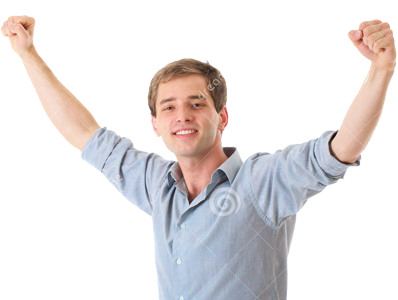
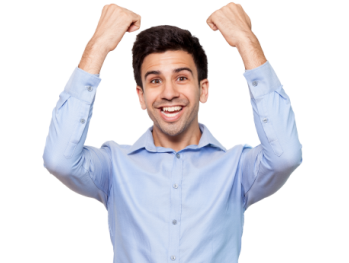
feat (index): responsividade - add media.css - correções gerais - add fontawesome.js

diff --git a/assets/css/media.css b/assets/css/media.css
@@ -1,0 +1,210 @@
+/* PHONES - TABLETS */
+@media only screen and (max-width: 768px) {
+    /* ================================== GERAL ================================== */
+    :root {
+        --header-height-600: 80px;
+    }
+    .container {
+        width: 85%;
+    }
+
+    /* ================================== HEADER ================================== */
+    header {
+        height: var(--header-height-600);
+        display: flex;
+        justify-content: center;
+        align-items: center;
+    }
+
+    .flex {
+        display: flex;
+        justify-content: space-between;
+        align-items: center;
+    }
+
+    .logo {
+        font-size: 1.5rem;
+    }
+
+    .logo img {
+        height: 60px;
+    }
+
+    .menu {
+        display: flex;
+        align-items: center;
+    }
+
+    nav ul {
+        display: none;
+        flex-direction: column;
+        background-color: #347aba;
+        position: absolute;
+        right: 0;
+        top: var(--header-height-600);
+        width: 50%;
+        cursor: pointer;
+    }
+
+    nav ul li a {
+        width: 100%;
+        font-size: 1rem;
+    }
+
+    .menuMobile {
+        display: flex;
+        justify-content: center;
+        align-items: center;
+    }
+
+    .menuMobile i {
+        display: flex;
+    }
+
+    /* ================================== SECTION: .BANNER ================================== */
+    .banner {
+        display: flex;
+        justify-content: center;
+
+    }
+
+    .introducao {
+        flex: 1;
+        display: flex;
+        flex-direction: column;
+        justify-content: center;
+        align-items: center;
+    }
+
+    .f1 {
+        margin-top: 0;
+    }
+
+    .f2 {
+        text-align: center;
+    }
+
+    .banner-img {
+        display: none;
+    }
+    /* .banner-img {
+        margin-right: 0;
+        flex: 1;
+        align-self: flex-end;
+    }
+
+    .banner-img img {
+        width: 100%;
+        display: inline-block;
+    } */
+
+    /* ================================== SECTION: .CONTENT ================================== */
+    
+    .content h1 {
+        margin: 0;
+        height: 50px;
+        line-height: 50px;
+    }
+    .figures {
+        display: flex;
+        justify-content:center;
+        align-items: center;
+        flex-wrap: wrap;
+    }
+
+    .figure {
+        /* width: 100%; */
+        background-repeat: no-repeat;
+        height: 150px;
+        margin-bottom: 20px;
+    }
+
+    #figure-img3 {
+        background-position: center bottom;
+    }
+
+    /* ================================== FOOTER ================================== */
+
+    footer {
+        display: flex;
+        line-height: 1rem;
+        height: 60px;
+    }
+
+}
+
+    /* LAPTOPS */
+    @media only screen and (min-width: 769px) and (max-width: 992px) {
+        /* ================================== GERAL ================================== */
+.container {
+    width: 85%;
+}
+
+    /* ================================== SECTION: .BANNER ================================== */
+    .banner {
+        display: flex;
+        justify-content: center;
+        align-items: center;
+
+    }
+
+    .introducao {
+        flex: 1;
+        display: flex;
+        flex-direction: column;
+        justify-content: center;
+        align-items: center;
+    }
+
+    .f1 {
+        margin-top: 0;
+    }
+
+    .f2 {
+        text-align: center;
+    }
+
+    .banner-img {
+        margin: 0;
+        flex: 1;
+    }
+
+    .banner-img img {
+        width: 310px;
+    }
+
+
+        /* ================================== SECTION: .CONTENT ================================== */
+        .content {
+            margin: 0;
+        }
+        .content h1 {
+            margin: 0;
+        }
+        .figures {
+            display: flex;
+            justify-content:center;
+            align-items: center;
+            flex-wrap: wrap;
+        }
+    
+        .figure {
+            width: 20%;
+            background-repeat: no-repeat;
+            height: 200px;
+            margin-bottom: 20px;
+        }
+    
+        #figure-img3 {
+            background-position: center bottom;
+        }
+
+            /* ================================== FOOTER ================================== */
+
+    footer {
+        display: flex;
+        line-height: 1rem;
+        height: 60px;
+    }
+
+}

diff --git a/index.html b/index.html
@@ -1,36 +1,45 @@
 <!DOCTYPE html>
 <html lang="pt-br">
+
 <head>
 	<title>Projeto Imagem em HTML</title>
 
 	<meta charset="UTF-8" />
-	<meta name="reply-to" content="dieggocarvalho@outlook.com" />
+	<meta name="reply-to" content="dieggo.dev@outlook.com" />
 	<meta name="developer" content="DieggoCarvalho" href="https://github.com/DieggoCarvalho/" />
 	<meta id="viewport" name="viewport" content="width=device-width, user-scalable=no" />
-
-	<link rel="stylesheet" type="text/css" href="assets/css/styles.css" />
+	<link rel="stylesheet" type="text/css" href="./assets/css/styles.css" />
+	<link rel="stylesheet" type="text/css" href="./assets/css/media.css" />
+	<link rel="shortcut icon" href="./assets/img/icon/favicon.png" type="image/png" />
 	<!-- <link rel="stylesheet" href="assets/css/reset.css" /> -->
 </head>
+
 <body>
 	<header>
-		<div class="container">
+		<div class="container flex">
 			<div class="logo">
 				<img src="assets/img/homem.png" alt="logo" />
 				<h1 id="logo">Logotipo</h1>
 			</div>
-			<nav class="menu">
-				<ul>
-					<li><a class="ativo" href="./">HOME</a></li>
-					<li><a href="#">SOBRE</a></li>
-					<li><a href="#">NOTÍCIAS</a></li>
-					<li><a href="#">PRODUTOS</a></li>
-					<li><a href="#">CONTATO</a></li>
-				</ul>
-			</nav>
+			<div class="menu">
+				<nav>
+					<div class="menuMobile">
+						<i class="fas fa-bars fa-lg"></i>
+					</div>
+					<ul>
+						<li><a class="ativo" href="./">HOME</a></li>
+						<li><a href="#">SOBRE</a></li>
+						<li><a href="#">NOTÍCIAS</a></li>
+						<li><a href="#">PRODUTOS</a></li>
+						<li><a href="#">CONTATO</a></li>
+					</ul>
+				</nav>
+			</div>
+
 		</div>
 	</header>
 	<section class="banner">
-		<div class="container">
+		<div class="container flex">
 			<div class="introducao">
 				<div class="frase f1">
 					Frase de EFEITO
@@ -79,10 +88,11 @@
 			<span class="copy">
 				by
 			</span>
-				DieggoCarvalho & Curso PHP ZP. Todos os direitos reservados.
+			DieggoCarvalho & Curso PHP ZP. Todos os direitos reservados. Img: <a href="https://br.freepik.com/fotos-gratis/de-negocio-feliz-unico-sucesso-olhando_1073413.htm#query=homem%20feliz%20bra%C3%A7os%20levantados&position=5&from_view=search&track=ais">Freepik</a>.
 		</div>
 	</footer>
-	<script src="assets/js/script.js"></script>
+	<script src="./assets/js/script.js"></script>
+	<script src="./assets/js/fontawesome.js"></script>
 </body>
 
 </html>

diff --git a/assets/css/styles.css b/assets/css/styles.css
@@ -14,6 +14,7 @@
 	/* font-family:  Arial; */
 	/*font-family: 'Arial', sans-serif;*/
 	font-family: "Titillium Web";
+	box-sizing: border-box;
 }
 /* body { -> Aplicado no *
 	margin: 0;
@@ -32,7 +33,7 @@ header {
 	/* width: 100%;  */
 	/* max-width: 1000px; */
 	margin: auto; /* centralizar na página */ /* já zerou antes de outros elementos*/
-	width: 1000px;
+	width: 900px;
 	color: #ffffff;
 }
 
@@ -63,12 +64,21 @@ header {
 }
 
 /* nav */
-.menu {
+nav {
 	float: right;
+}
+
+.menuMobile {
+	display: none;
+	width: 40px;
+	height: 40px;
+	cursor: pointer;
+	float: left;
+	line-height: 100px;
 }
 /* nav ul,
 nav li  */
-.menu li {
+nav li {
 	list-style: none;
 	float: left;
 	/* margin: 0;
@@ -84,7 +94,7 @@ nav li  */
 } */
 
 /* nav li a  */
-.menu li a {
+nav li a {
 	text-decoration: none;
 	color: #fff;
 	/* propriedades antes do nav li */
@@ -96,13 +106,17 @@ nav li  */
 	font-size: 14px;
 }
 /* nav li:hover  */
-.menu li:hover {
+nav li:hover {
 	background-color: #3480c1;
 
 }
 /* nav li .ativo */
-.menu li .ativo {
+nav li .ativo {
 	color: #ffc001;
+}
+
+nav ul {
+	display: flex;
 }
 
 /* ================================== SECTION: .BANNER ================================== */
@@ -130,6 +144,7 @@ nav li  */
 /* .headerq2 img  */
 .banner-img {
 	margin-right: 55px;
+	margin-top: 20px; /*decorrente da troca de imagem */
 	float: right;
 }
 
@@ -219,7 +234,7 @@ nav li  */
 .figure {
 	display: inline-block;
 	height: 500px;
-	width: 220px;
+	width: 200px;
 	background-position: center;
 	position: relative;
 	cursor: pointer;
@@ -279,5 +294,10 @@ footer {
 }
 
 .copy {
+	color: #353535;
+}
+
+footer a {
+	text-decoration: none;
 	color: #353535;
 }

diff --git a/assets/js/script.js b/assets/js/script.js
@@ -1,3 +1,13 @@
 const d = new Date(); // criar data
-const year = document.getElementById('current-year');// obter o span de id = current-year
+const year = document.getElementById("current-year"); // obter o span de id = current-year
 year.innerHTML = d.getFullYear(); // ano completo na span de id = current-year
+
+window.onload = function () {
+  document.querySelector(".menuMobile").addEventListener("click", function () {
+    if (document.querySelector(".menu nav ul").style.display == "flex") {
+      document.querySelector(".menu nav ul").style.display = "none";
+    } else {
+      document.querySelector(".menu nav ul").style.display = "flex";
+    }
+  });
+};
